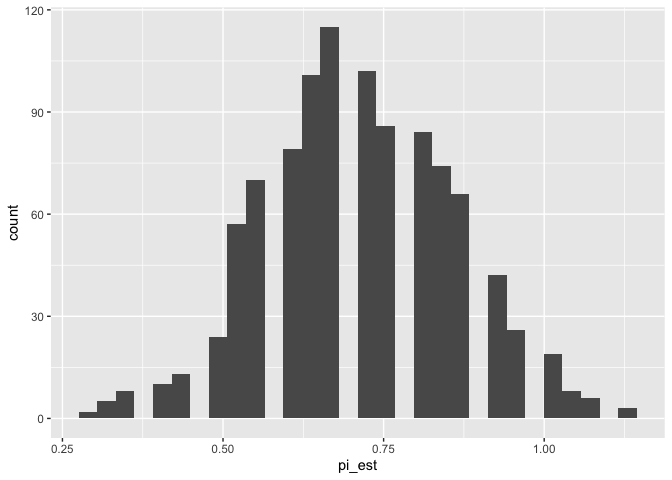
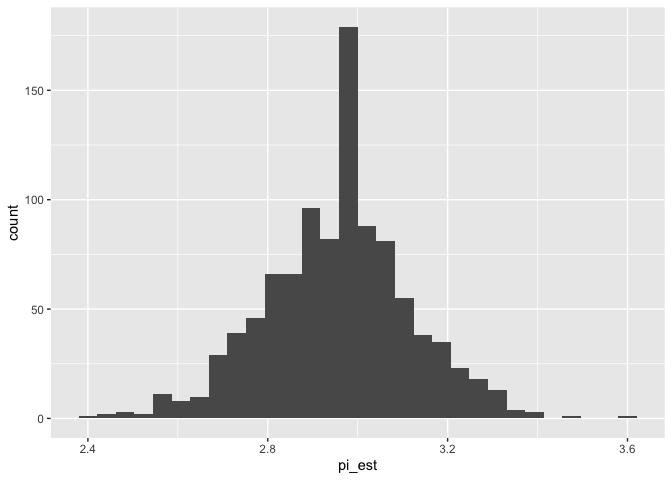
Revise Challenge 7

diff --git a/data-science-curriculum-build-2/challenges/c07-monte-carlo-assignment.md b/data-science-curriculum-build-2/challenges/c07-monte-carlo-assignment.md
@@ -198,8 +198,8 @@ square $x \in [0, 1]$ and $y \in [0, 1]$.
 ## TASK: Choose a sample size and generate samples
 n <- 100
 df_q1 <- 
-  tibble(x = seq(-5, +5, length.out = 100)) %>% 
-  mutate(y = dunif(x, min = -1, max = +1))
+  tibble(x = runif(100, min = 0, max = 1)) %>% 
+  mutate(y = runif(100, min = 0, max = 1))
 ```
 
 Use the following to check that you’ve used the correct variable names.
@@ -256,7 +256,17 @@ stat <- function(x, y) {
     return(0) 
     }
 }
+
+stat(1, 1)
 ```
+
+    ## [1] 0
+
+``` r
+stat(0.5, 0.5)
+```
+
+    ## [1] 4
 
 Implement your own assert statements. They should pass using your
 implementation of `stat()`, *but* they should also be *correct*.
@@ -299,12 +309,13 @@ print("Your assertions passed, but make sure they're checking the right thing!")
 
 - You chose a correct value of `stat(x, y)` when `x, y` is *outside* the
   circle. Why did you choose this value?
-  - Since the radius of the circle is 1, we know that (0.5, 0.5) is
-    inside the circle and thus is an element of Sc.
+  - I chose 0 as the indicator function for our approximation of pi must
+    take 0 if the unform random variable does not land in the circle.
 - You chose a correct value of `stat(x, y)` when `x, y` is *inside* the
-  circle. Why did you choose this value? -Since the radius of the circle
-  is 1, we know that (1.5, 1.5) is outside the circle and thus not an
-  element of Sc (but rather St).
+  circle. Why did you choose this value?
+  - I chose 4 as we multiply the chance a uniform random variable lands
+    in the circle by that amount to ensure that we are approximating for
+    pi instead of pi/4.
 
 ### **q3** Estimate $\pi$
 
@@ -315,15 +326,17 @@ Using your data in `df_q1`, estimate $\pi$.
 df_q3 <- 
   df_q1 %>%
   # TODO: Estimate pi as the column `pi_est`
-  mutate(inside_circle = ifelse(x^2 + y^2 <= 1, 1, 0)) %>%
-  summarise(pi_est = 4 * mean(inside_circle))
+  rowwise() %>%               
+  mutate(value = stat(x, y)) %>%  
+  ungroup() %>%               
+  summarise(pi_est = mean(value))
 df_q3
 ```
 
     ## # A tibble: 1 × 1
     ##   pi_est
     ##    <dbl>
-    ## 1  0.720
+    ## 1   2.96
 
 Use the following to check that you’ve used the correct variable names.
 (NB. This does not check correctness.)
@@ -404,7 +417,7 @@ df_q4 %>%
 
 - What is a range of plausible values, based on the sampling
   distribution you’ve generated?
-  - A range of plausible values would be 0.4-1.1
+  - A range of plausible values would be 2.75-3.25
 
 ### **q5** Bootstrap percentile confidence interval
 
@@ -416,12 +429,13 @@ level (`alpha = 0.05`).
 
 ``` r
 ## TASK: Compute a bootstrap confidence interval at the 95% level (alpha = 0.05)
+alpha = 0.05
 df_q5 <- 
   df_q4 %>% 
   summarize(
     # TODO: Compute pi_lo and pi_up
-    pi_lo = quantile(pi_est, 0.025),
-    pi_up = quantile(pi_est, 0.075),
+    pi_lo = quantile(pi_est, alpha/2),
+    pi_up = quantile(pi_est, 1-alpha/2),
   )
 
 df_q5
@@ -430,7 +444,7 @@ df_q5
     ## # A tibble: 1 × 2
     ##   pi_lo pi_up
     ##   <dbl> <dbl>
-    ## 1 0.439  0.52
+    ## 1   2.6  3.28
 
 ### **q6** CLT confidence interval
 
@@ -446,52 +460,54 @@ in both q5 and q6. If they disagree strongly, that suggests that you’ve
 done something *wrong* in one of the tasks….
 
 ``` r
-df_q1 %>% 
+df_q1 %>%
+    rowwise() %>%                
+    mutate(value = stat(x, y)) %>%  
+    ungroup() %>%
     mutate(
-    sample_mean = mean(x),
-    sd_uniform = sqrt((1 - (-1))^2 / 12),  
+    sample_mean = mean(value),
+    sd_uniform = sd(value),  
     se = sd_uniform / sqrt(n),
     lo = sample_mean - 1.96 * se,  
     hi = sample_mean + 1.96 * se  
     )
 ```
 
-    ## # A tibble: 100 × 7
-    ##        x     y sample_mean sd_uniform     se     lo    hi
-    ##    <dbl> <dbl>       <dbl>      <dbl>  <dbl>  <dbl> <dbl>
-    ##  1 -5        0    7.11e-17      0.577 0.0577 -0.113 0.113
-    ##  2 -4.90     0    7.11e-17      0.577 0.0577 -0.113 0.113
-    ##  3 -4.80     0    7.11e-17      0.577 0.0577 -0.113 0.113
-    ##  4 -4.70     0    7.11e-17      0.577 0.0577 -0.113 0.113
-    ##  5 -4.60     0    7.11e-17      0.577 0.0577 -0.113 0.113
-    ##  6 -4.49     0    7.11e-17      0.577 0.0577 -0.113 0.113
-    ##  7 -4.39     0    7.11e-17      0.577 0.0577 -0.113 0.113
-    ##  8 -4.29     0    7.11e-17      0.577 0.0577 -0.113 0.113
-    ##  9 -4.19     0    7.11e-17      0.577 0.0577 -0.113 0.113
-    ## 10 -4.09     0    7.11e-17      0.577 0.0577 -0.113 0.113
+    ## # A tibble: 100 × 8
+    ##         x     y value sample_mean sd_uniform    se    lo    hi
+    ##     <dbl> <dbl> <dbl>       <dbl>      <dbl> <dbl> <dbl> <dbl>
+    ##  1 0.869  0.551     0        2.96       1.76 0.176  2.61  3.31
+    ##  2 0.491  0.231     4        2.96       1.76 0.176  2.61  3.31
+    ##  3 0.768  0.985     0        2.96       1.76 0.176  2.61  3.31
+    ##  4 0.0521 0.931     4        2.96       1.76 0.176  2.61  3.31
+    ##  5 0.150  0.446     4        2.96       1.76 0.176  2.61  3.31
+    ##  6 0.243  0.258     4        2.96       1.76 0.176  2.61  3.31
+    ##  7 0.640  0.300     4        2.96       1.76 0.176  2.61  3.31
+    ##  8 0.982  0.927     0        2.96       1.76 0.176  2.61  3.31
+    ##  9 0.0311 0.782     4        2.96       1.76 0.176  2.61  3.31
+    ## 10 0.148  0.407     4        2.96       1.76 0.176  2.61  3.31
     ## # ℹ 90 more rows
 
 **Observations**:
 
 - Does your intervals include the true value of $\pi$?
-  - (Bootstrap CI: yes or no?) No
-  - (CLT CI: yes or no?) No
+  - (Bootstrap CI: yes or no?) Yes
+  - (CLT CI: yes or no?) Yes
 - How closely do your bootstrap CI and CLT CI agree?
-  - (Your answer here) They do not seem drastically far from eachother,
-    but I am unsure as I may have calculated incorrectly.
+  - (Your answer here) They are very similar
 - Comment on the width of your CI(s). Would your estimate of $\pi$ be
   good enough for roughly estimating an area (e.g., to buy enough paint
   for an art project)? Would your estimate of $\pi$ be good enough for
   precisely calculating a trajectory (e.g., sending a rocket into
   orbit)?
-  - (Good enough as a rough estimate?) As a *very* rough estimate it
-    would suffice
-  - (Good enough as a precise estimate?) This would not be sufficient
-    for a precise estimate, it is very far from the true value of pi.
+  - (Good enough as a rough estimate?) This would suffice for a good
+    rough estimate of pi
+  - (Good enough as a precise estimate?) This would not suffice for a
+    precise estimate a the confidence interval is too high
 - What would be a *valid* way to make your CI more narrow?
-  - (Your answer here) I don’t think I did the right steps to calculate
-    pi using CI and CLT, so i’d appreciate feedback on where I went
-    wrong.
+  - (Your answer here) We could use a larger sampling size which would
+    result in reduced margin of error (due to more data points), thus
+    causing a narrower CI
 
 # References
 
